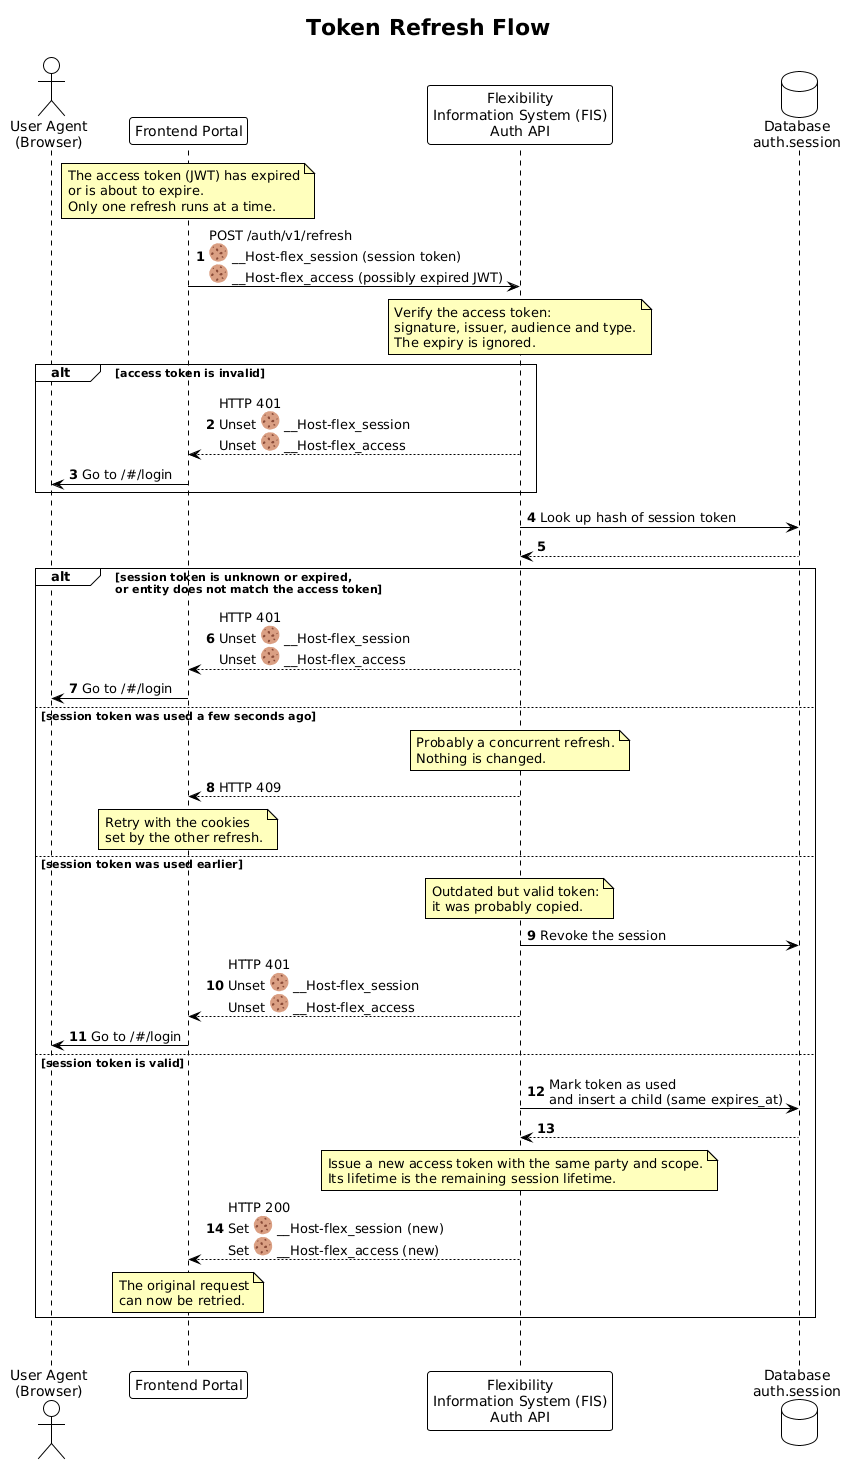
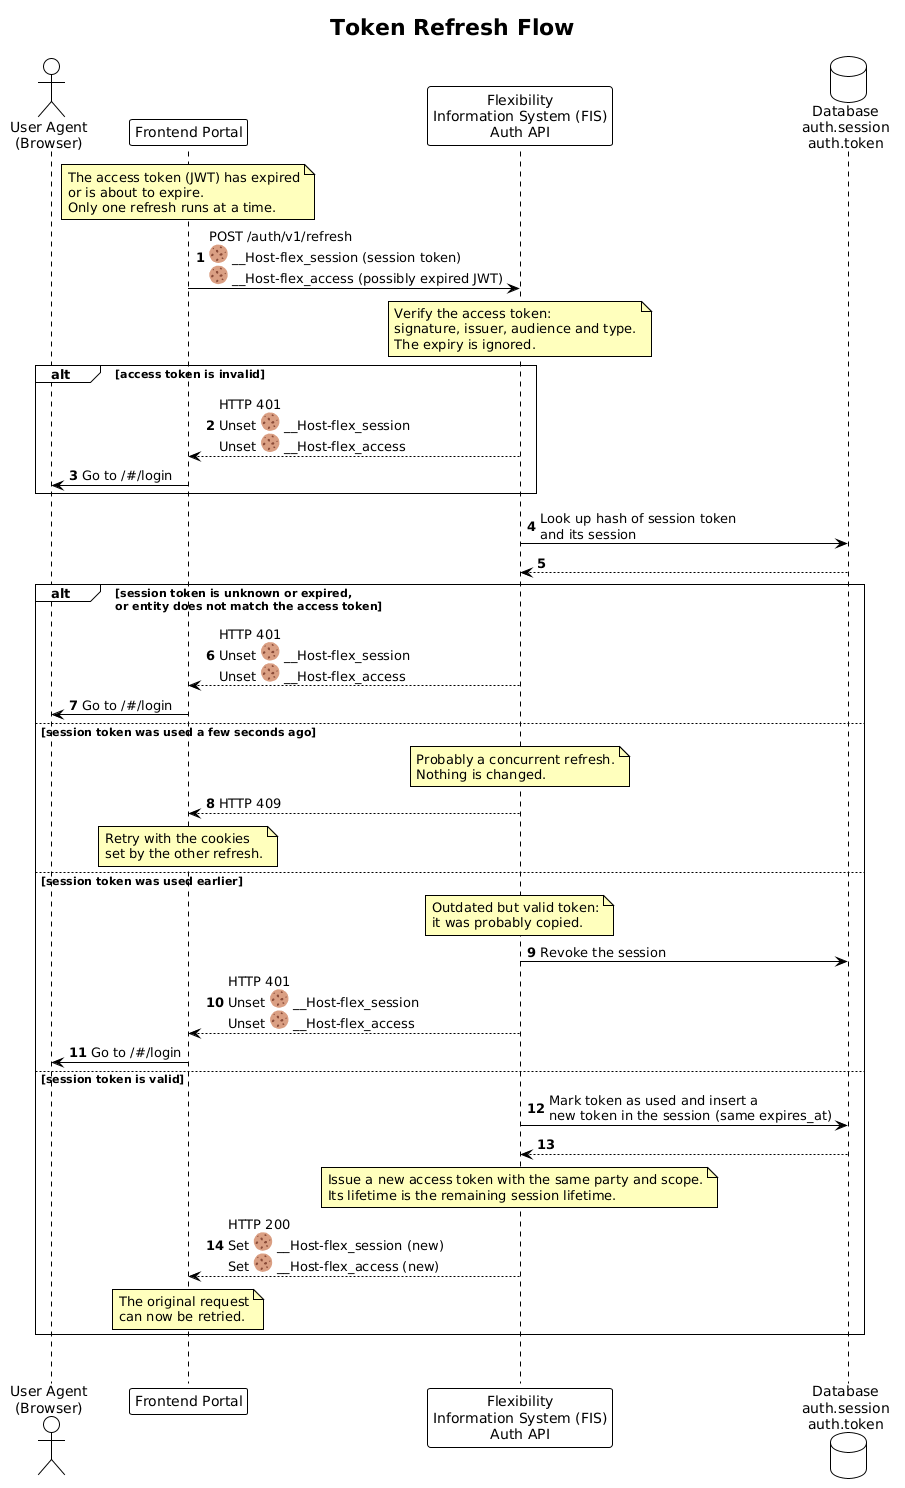
docs: back to 2 tables (FLEX-1617)

diff --git a/docs-dev/sessions.md b/docs-dev/sessions.md
@@ -79,43 +79,53 @@ has expired, since it is signed.
 
 Access tokens contain information that can be used directly, whereas opaque
 tokens contain no claims, so the server must look up what a session token means.
-This is done in a `session` database table. This table is `UNLOGGED` and kept
-out of the audit mechanisms. Indeed, it only contains hashes, so there is
-nothing worth restoring in case of crash for instance. Users will just log in
+This is done in two database tables, `session` and `token`. Both are `UNLOGGED`
+and kept out of the audit mechanisms. Indeed, they only contain hashes, so there
+is nothing worth restoring in case of crash for instance. Users will just log in
 again when the system is restored.
 
 A session is created at login. It represents _who_ is logged in and therefore
 what they may do, independently of which tokens are currently valid. Here is
 the content of the `session` table:
 
-| Column       | Description                                                                                       |
-|--------------|---------------------------------------------------------------------------------------------------|
-| `id`         | SHA-256 hash of the session token (32 bytes).                                                     |
-| `entity_id`  | The entity that logged in.                                                                        |
-| `parent_id`  | The `id` of the token this one was issued from at refresh. `NULL` for the token created at login. |
-| `expires_at` | Absolute end of the session. Copied unchanged from parent to child, so rotation never extends it. |
-| `used_at`    | Set when the token has been exchanged for a new pair at refresh.                                  |
+| Column       | Description                                  |
+|--------------|----------------------------------------------|
+| `id`         | Random UUID (primary key).                   |
+| `entity_id`  | The entity that logged in.                   |
+| `expires_at` | Absolute end of the session. Never extended. |
 
-Session tokens are _rotated_: every refresh returns a new session token and
-marks the previous one as used. We remember used tokens so as to detect reuse:
-if an already used token is presented again, the whole session is revoked and
-the user must log in again. Logging out also revokes the session. Revocation of
-a session amounts to deleting the session token from the database. A cascading
-delete will then delete all tokens in the `parent_id` chain.
+A session initially owns one session tokens. Only the SHA-256 hash of a session
+token is stored, in the `token` table:
 
-With rotation every 2 minutes, a long-lived session creates hundreds of rows, so
-deleting all sessions from the previous day is costly on the index. Instead, we
-partition the `session` table with one partition per day. Cleaning old and
-expired sessions can then be done by just dropping old partitions. We set up two
-periodic jobs running inside the database with
+| Column       | Description                                                     |
+|--------------|-----------------------------------------------------------------|
+| `token_hash` | SHA-256 hash of the session token (32 bytes).                   |
+| `session_id` | The session the token belongs to. Cascading delete.             |
+| `expires_at` | Copied from the session. Used for partitioning.                 |
+| `used_at`    | Set when the token has been exchanged for a new one at refresh. |
+
+Session tokens are _rotated_: every refresh inserts a new token in the same
+session and marks the previous one as used. We remember used tokens so as to
+detect reuse: if an already used token is presented again, the whole session is
+revoked and the user must log in again. Logging out also revokes the session.
+Revocation of a session amounts to deleting its row in `session`. All related
+tokens are then automatically removed based on the `session_id`.
+
+With rotation every 2 minutes, a long-lived session creates hundreds of tokens,
+so deleting all tokens from the previous day is costly on the index. Instead, we
+partition the `token` table with one partition per day, based on `expires_at`.
+Since a token copies it from its session, all the tokens of a session end in the
+same partition. Cleaning old and expired sessions can then be done by just
+dropping old partitions. For optimisation reasons, every query on the `token`
+table has a time filter on `expires_at`, so that the database can select the
+right partitions from the beginning.
+
+We set up a periodic job running inside the database with
 [`pg_cron`](https://github.com/citusdata/pg_cron), like we already do for
 some functionality (see for instance the notice sync in [Notices](./notice.md)).
-One job creates partitions in advance, the other one drops the old partitions.
-Partitioning is done based on the `expires_at` field. Since children tokens copy
-it from the parent, we are sure that a whole token family will live in the same
-partition chosen at login. As a result, for optimisation reasons, every query
-against the `session` table has a time filter, so that the database can select
-the right partition from the beginning.
+The job creates token partitions in advance and drops the old ones. It then
+deletes the sessions that expired long enough ago for all their tokens to be
+gone.
 
 #### Concurrent refreshes
 
@@ -140,14 +150,14 @@ tokens can also be revoked even though we do not store them in the database.
 
 #### Summary of operations
 
-| Operation              | Effect                                                                                      |
-|------------------------|---------------------------------------------------------------------------------------------|
-| Login (`/callback`)    | Insert a session row. Issue an access token. Set both cookies.                              |
-| Refresh                | Mark the session token used, insert a child. Issue a new access token with the same claims. |
-| API call               | Verify the JWT signature and expiration time. No session lookup required.                   |
-| Assume / unassume      | Issue a new access token. The session is unchanged.                                         |
-| Logout, reuse          | Delete the session and its descendants, clear cookies.                                      |
-| `/token` (API clients) | Issue a 10 minute JWT. No session.                                                          |
+| Operation              | Effect                                                                                                       |
+|------------------------|--------------------------------------------------------------------------------------------------------------|
+| Login (`/callback`)    | Insert a session and its first token. Issue an access token. Set both cookies.                               |
+| Refresh                | Mark the session token used, insert a new one in the session. Issue a new access token with the same claims. |
+| API call               | Verify the JWT signature and expiration time. No session lookup required.                                    |
+| Assume / unassume      | Issue a new access token with the remaining lifetime of the one to exchange. The session is unchanged.       |
+| Logout, reuse          | Delete the session, and with it all its tokens. Clear cookies.                                               |
+| `/token` (API clients) | Issue a 10 minute JWT. No session.                                                                           |
 
 The following diagram shows a refresh, including the failure paths.
 
